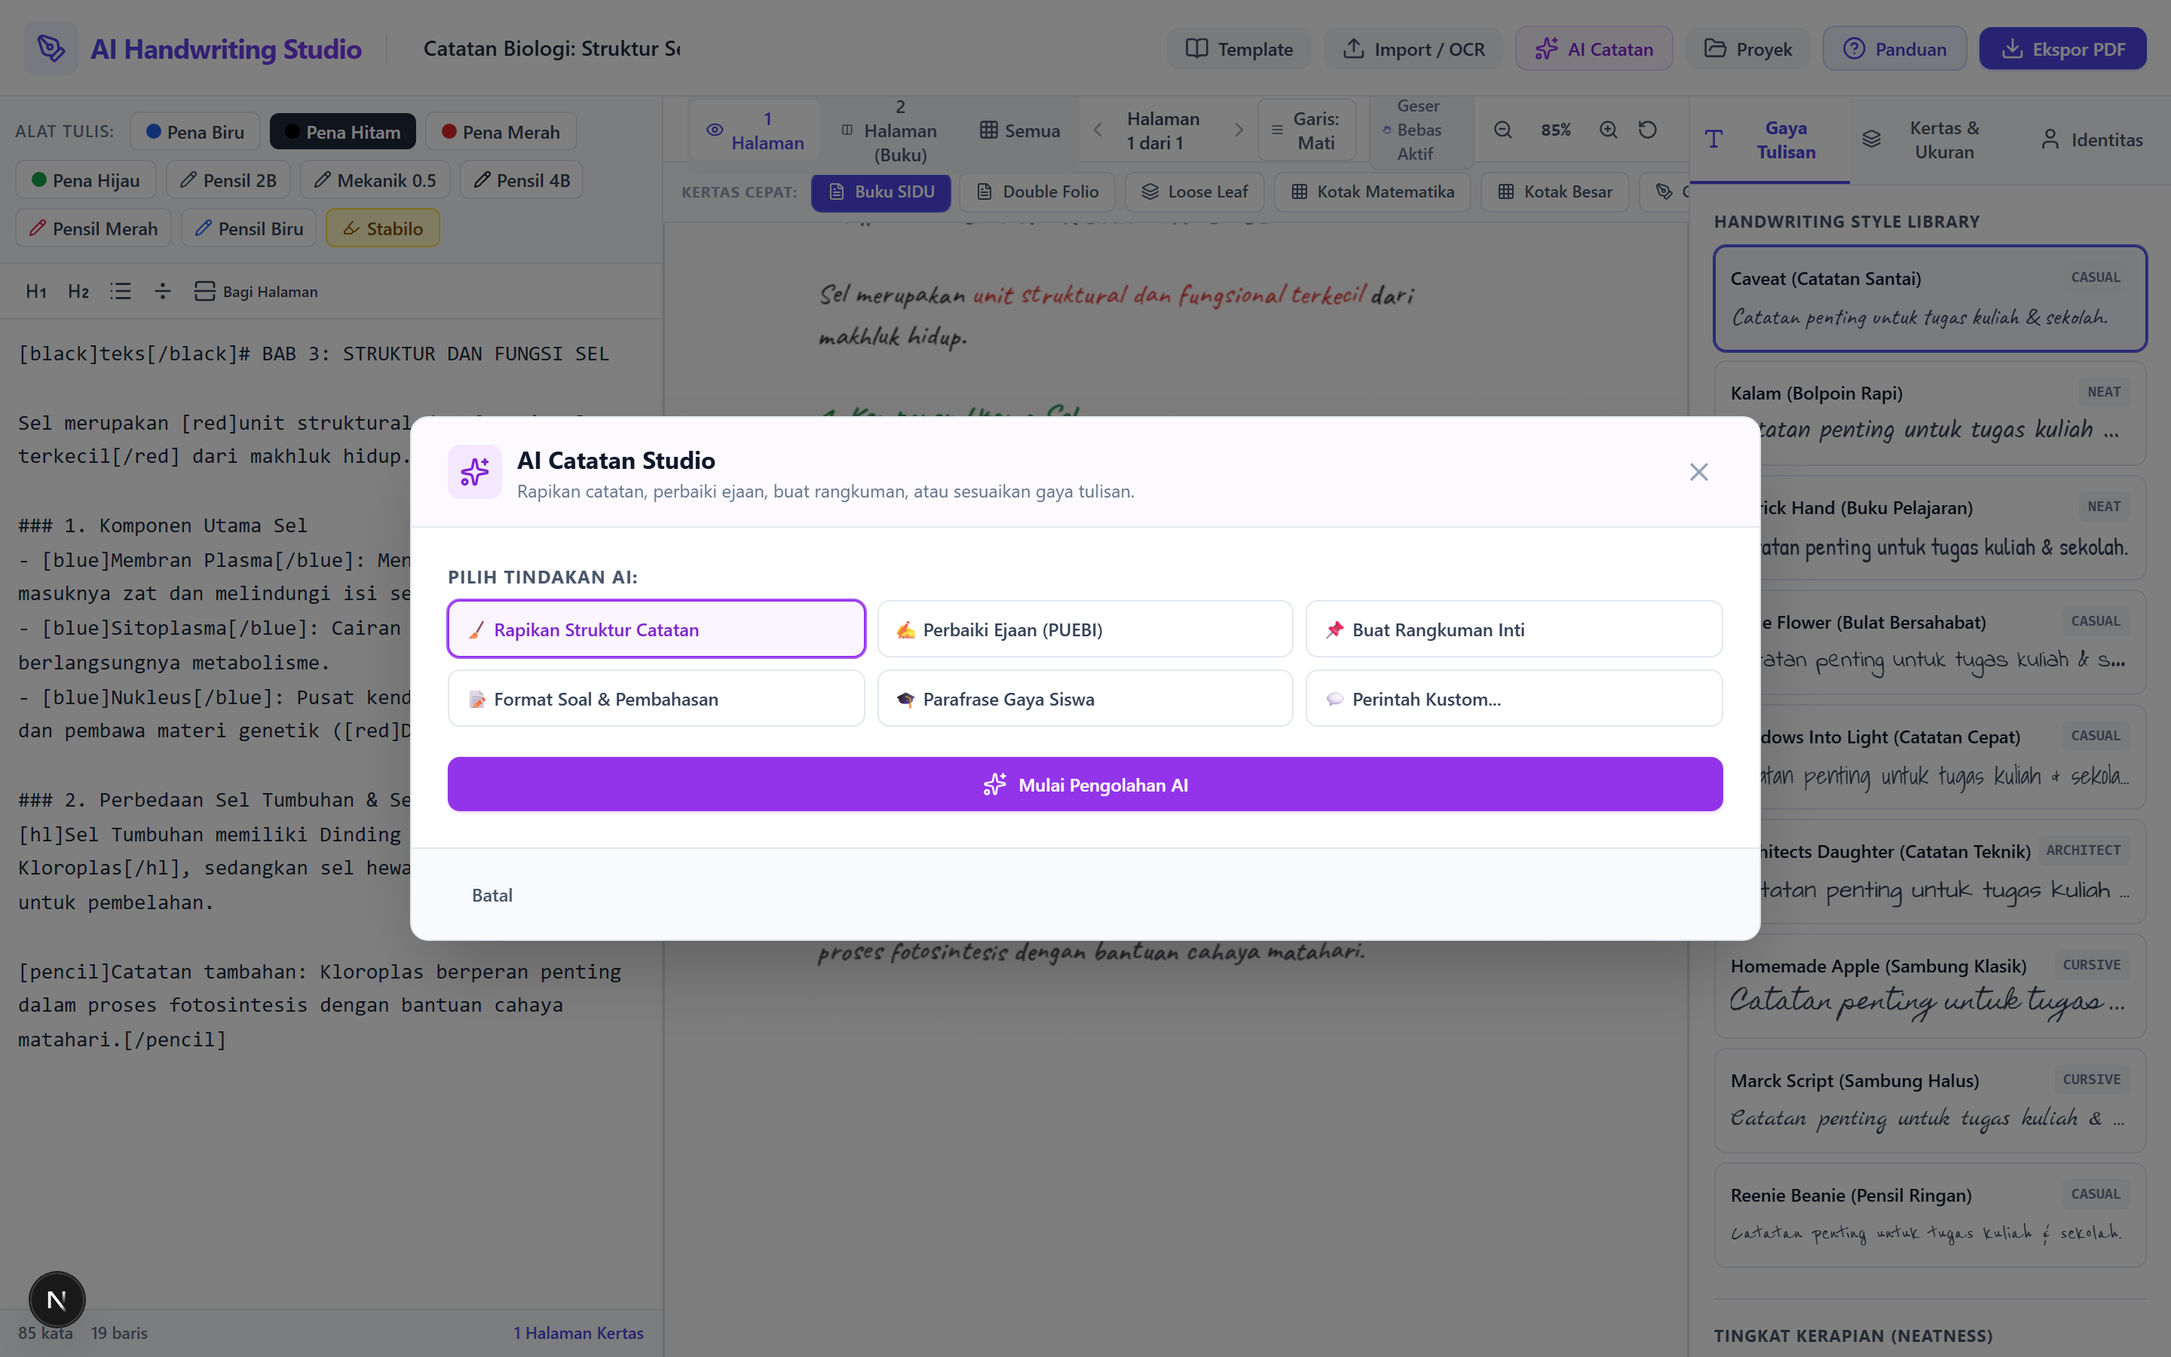
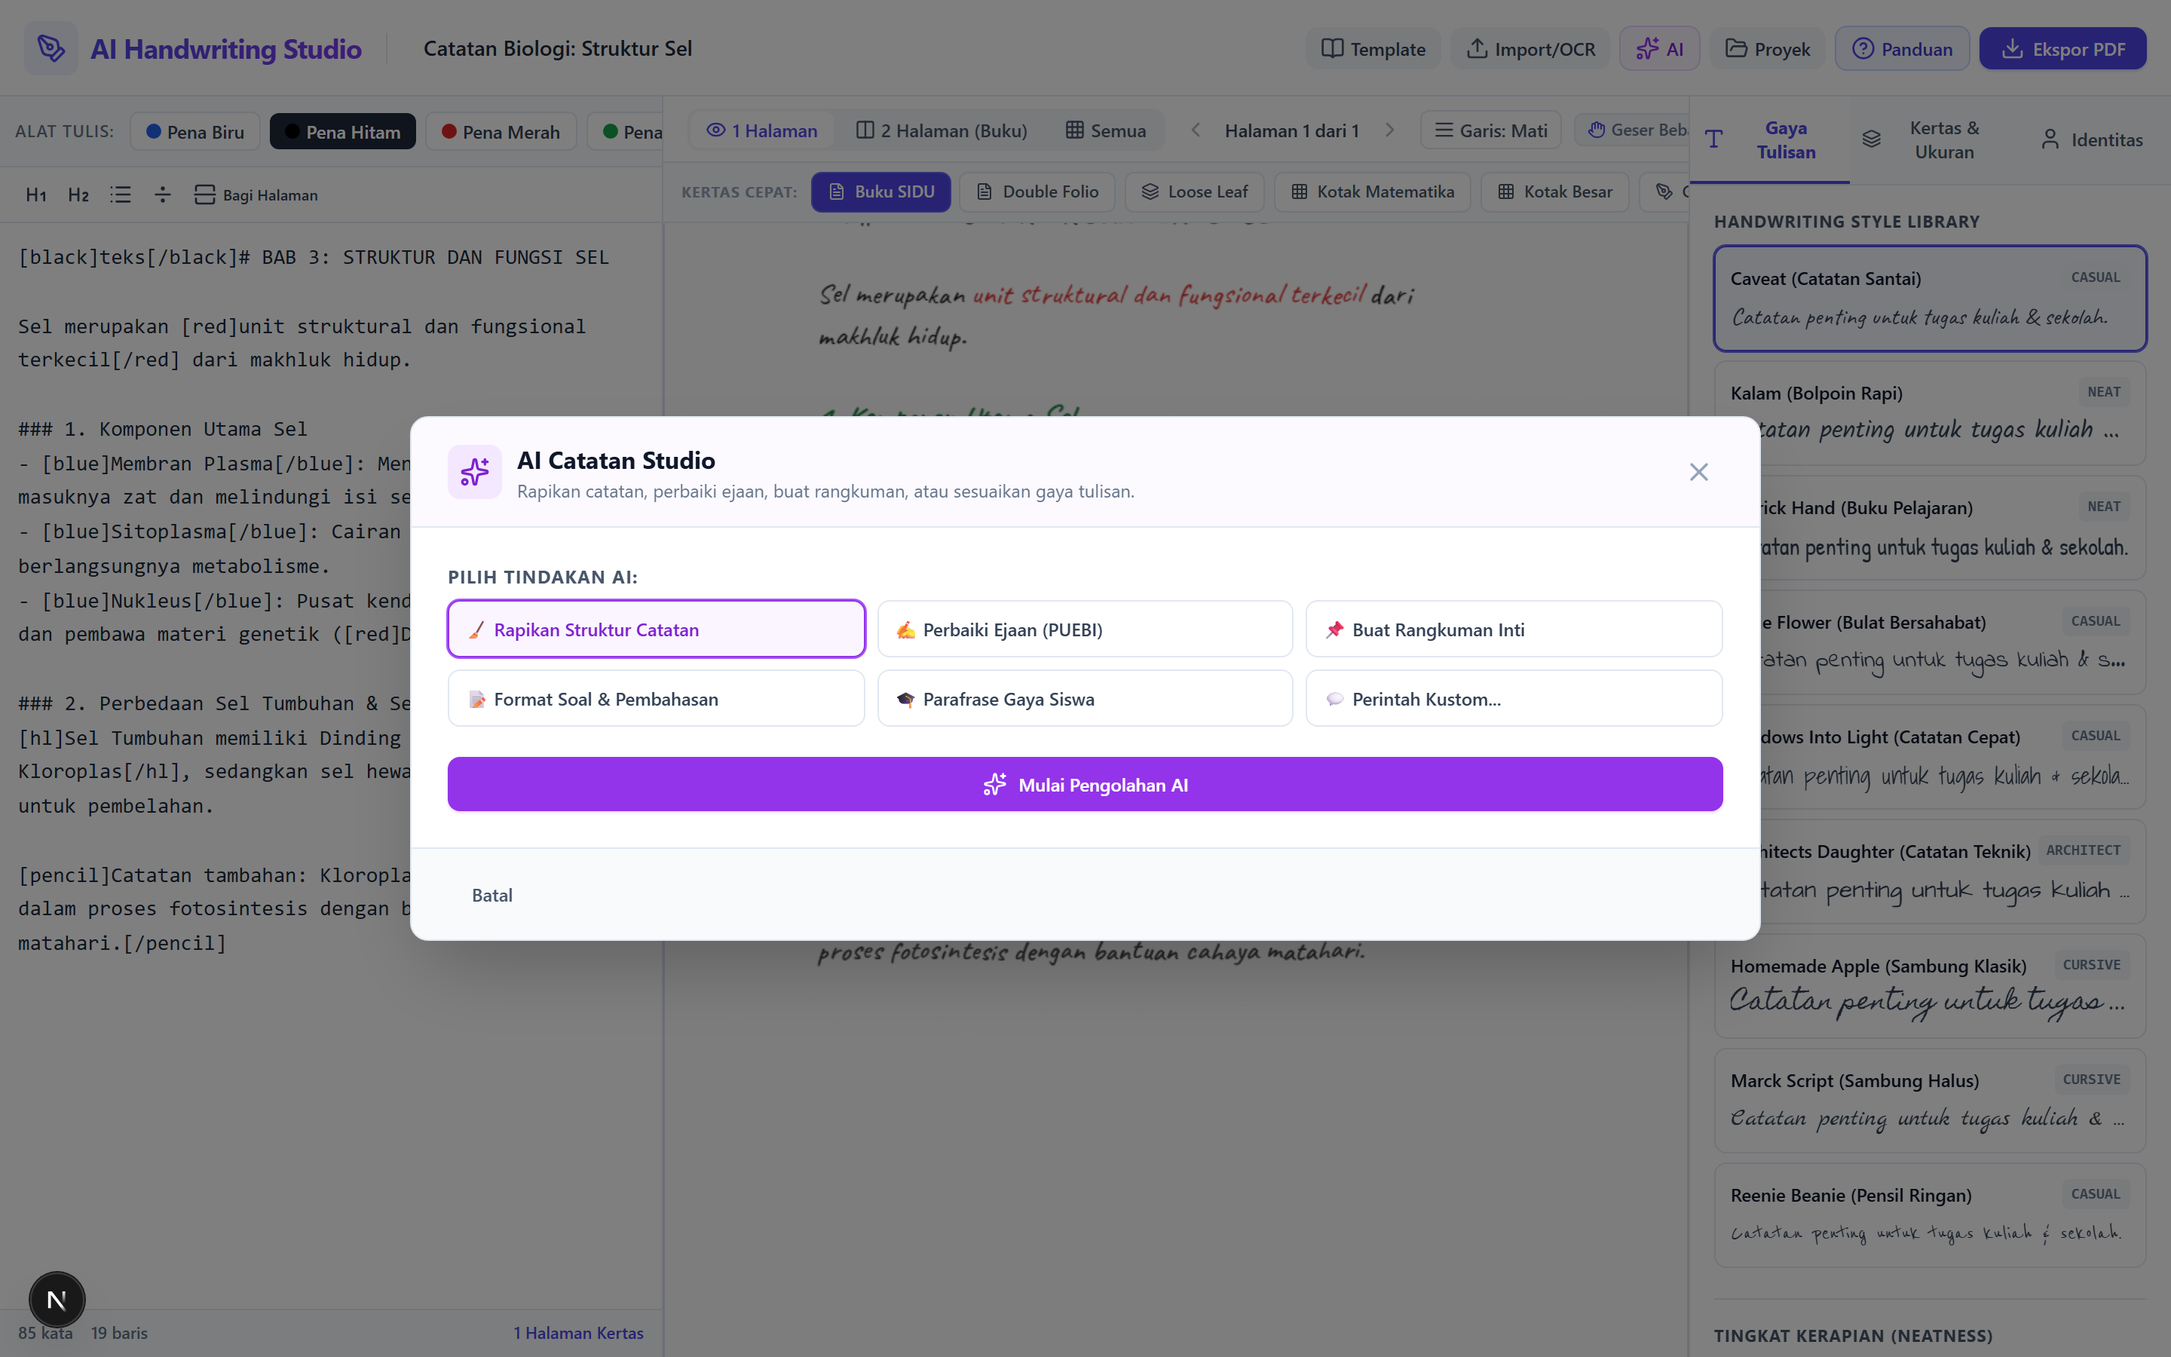
fix(responsive): full responsive layout with mobile bottom nav, auto-zoom scaling & updated documentation

diff --git a/src/components/Navbar.tsx b/src/components/Navbar.tsx
@@ -26,37 +26,38 @@ export const Navbar: React.FC<NavbarProps> = ({
   isSaving,
 }) => {
   return (
-    <header className="h-16 bg-white border-b border-slate-200 px-4 flex items-center justify-between sticky top-0 z-30 select-none">
+    <header className="h-14 sm:h-16 bg-white border-b border-slate-200 px-3 sm:px-4 flex items-center justify-between sticky top-0 z-30 select-none">
       {/* Brand & Project Title */}
-      <div className="flex items-center space-x-4">
-        <div className="flex items-center space-x-2 text-indigo-600 font-bold text-lg tracking-tight">
-          <div className="p-2 bg-indigo-50 rounded-lg text-indigo-600">
-            <PenTool className="w-5 h-5" />
+      <div className="flex items-center space-x-2 sm:space-x-4 min-w-0">
+        <div className="flex items-center space-x-1.5 sm:space-x-2 text-indigo-600 font-bold text-base sm:text-lg tracking-tight shrink-0">
+          <div className="p-1.5 sm:p-2 bg-indigo-50 rounded-lg text-indigo-600">
+            <PenTool className="w-4 h-4 sm:w-5 sm:h-5" />
           </div>
           <span className="hidden sm:inline bg-gradient-to-r from-indigo-600 to-violet-600 bg-clip-text text-transparent">
             AI Handwriting Studio
           </span>
+          <span className="sm:hidden font-bold text-indigo-600 text-sm">Studio</span>
         </div>
 
-        <div className="h-5 w-px bg-slate-200 hidden sm:block" />
+        <div className="h-4 sm:h-5 w-px bg-slate-200 hidden sm:block" />
 
-        <div className="flex items-center space-x-2">
+        <div className="flex items-center space-x-1 sm:space-x-2 min-w-0">
           <input
             type="text"
             value={project.title}
             onChange={(e) => onUpdateTitle(e.target.value)}
-            className="text-sm font-semibold text-slate-800 bg-transparent hover:bg-slate-100 focus:bg-white focus:ring-1 focus:ring-indigo-500 rounded px-2 py-1 outline-none max-w-[200px] md:max-w-[320px] transition-colors"
+            className="text-xs sm:text-sm font-semibold text-slate-800 bg-transparent hover:bg-slate-100 focus:bg-white focus:ring-1 focus:ring-indigo-500 rounded px-1.5 sm:px-2 py-1 outline-none w-24 sm:w-44 md:w-64 truncate transition-colors"
             placeholder="Judul Catatan..."
           />
-          {isSaving && <span className="text-xs text-slate-400 italic">Menyimpan...</span>}
+          {isSaving && <span className="text-[10px] text-slate-400 italic hidden md:inline">Menyimpan...</span>}
         </div>
       </div>
 
       {/* Primary Action Buttons */}
-      <div className="flex items-center space-x-2">
+      <div className="flex items-center space-x-1 sm:space-x-1.5 shrink-0">
         <button
           onClick={onOpenTemplates}
-          className="flex items-center space-x-1.5 px-3 py-1.5 text-xs font-medium text-slate-700 bg-slate-100 hover:bg-slate-200 rounded-lg transition-colors"
+          className="flex items-center space-x-1 p-1.5 sm:px-2.5 sm:py-1.5 text-xs font-medium text-slate-700 bg-slate-100 hover:bg-slate-200 rounded-lg transition-colors"
           title="Contoh Template Catatan Siswa"
         >
           <BookOpen className="w-4 h-4 text-slate-600" />
@@ -65,25 +66,25 @@ export const Navbar: React.FC<NavbarProps> = ({
 
         <button
           onClick={onOpenImport}
-          className="flex items-center space-x-1.5 px-3 py-1.5 text-xs font-medium text-slate-700 bg-slate-100 hover:bg-slate-200 rounded-lg transition-colors"
+          className="flex items-center space-x-1 p-1.5 sm:px-2.5 sm:py-1.5 text-xs font-medium text-slate-700 bg-slate-100 hover:bg-slate-200 rounded-lg transition-colors"
           title="Import DOCX, TXT atau OCR Foto Soal"
         >
           <Upload className="w-4 h-4 text-slate-600" />
-          <span className="hidden md:inline">Import / OCR</span>
+          <span className="hidden md:inline">Import/OCR</span>
         </button>
 
         <button
           onClick={onOpenAi}
-          className="flex items-center space-x-1.5 px-3 py-1.5 text-xs font-medium text-purple-700 bg-purple-50 hover:bg-purple-100 border border-purple-200 rounded-lg transition-colors"
+          className="flex items-center space-x-1 p-1.5 sm:px-2.5 sm:py-1.5 text-xs font-medium text-purple-700 bg-purple-50 hover:bg-purple-100 border border-purple-200 rounded-lg transition-colors"
           title="Bantuan AI: Rapikan, Perbaiki Ejaan, Rangkum"
         >
           <Sparkles className="w-4 h-4 text-purple-600" />
-          <span className="hidden sm:inline">AI Catatan</span>
+          <span className="hidden sm:inline">AI</span>
         </button>
 
         <button
           onClick={onOpenProjects}
-          className="flex items-center space-x-1.5 px-3 py-1.5 text-xs font-medium text-slate-700 bg-slate-100 hover:bg-slate-200 rounded-lg transition-colors"
+          className="flex items-center space-x-1 p-1.5 sm:px-2.5 sm:py-1.5 text-xs font-medium text-slate-700 bg-slate-100 hover:bg-slate-200 rounded-lg transition-colors"
           title="Buka Proyek Tersimpan"
         >
           <FolderOpen className="w-4 h-4 text-slate-600" />
@@ -93,7 +94,7 @@ export const Navbar: React.FC<NavbarProps> = ({
         {onOpenTour && (
           <button
             onClick={onOpenTour}
-            className="flex items-center space-x-1.5 px-3 py-1.5 text-xs font-medium text-indigo-700 bg-indigo-50 hover:bg-indigo-100 border border-indigo-200 rounded-lg transition-colors"
+            className="flex items-center space-x-1 p-1.5 sm:px-2.5 sm:py-1.5 text-xs font-medium text-indigo-700 bg-indigo-50 hover:bg-indigo-100 border border-indigo-200 rounded-lg transition-colors"
             title="Panduan Cara Menggunakan AI Handwriting Studio"
           >
             <HelpCircle className="w-4 h-4 text-indigo-600" />
@@ -103,10 +104,11 @@ export const Navbar: React.FC<NavbarProps> = ({
 
         <button
           onClick={onOpenExport}
-          className="flex items-center space-x-1.5 px-3.5 py-1.5 text-xs font-semibold text-white bg-indigo-600 hover:bg-indigo-700 rounded-lg shadow-sm transition-all shadow-indigo-200"
+          className="flex items-center space-x-1 sm:space-x-1.5 px-2.5 sm:px-3.5 py-1.5 text-xs font-semibold text-white bg-indigo-600 hover:bg-indigo-700 rounded-lg shadow-sm transition-all shadow-indigo-200 shrink-0"
         >
-          <Download className="w-4 h-4" />
-          <span>Ekspor PDF</span>
+          <Download className="w-3.5 h-3.5 sm:w-4 sm:h-4" />
+          <span className="hidden sm:inline">Ekspor PDF</span>
+          <span className="sm:hidden">PDF</span>
         </button>
       </div>
     </header>

diff --git a/src/app/page.tsx b/src/app/page.tsx
@@ -26,6 +26,7 @@ import {
   SampleTemplate,
   createProjectFromTemplate,
 } from '@/lib/templates';
+import { Eye, PenLine, Sliders } from 'lucide-react';
 import React, { useCallback, useEffect, useMemo, useRef, useState } from 'react';
 
 export default function Home() {
@@ -46,6 +47,7 @@ export default function Home() {
   const [isImportOpen, setIsImportOpen] = useState(false);
   const [isExportOpen, setIsExportOpen] = useState(false);
   const [isTourOpen, setIsTourOpen] = useState(false);
+  const [mobileTab, setMobileTab] = useState<'editor' | 'preview' | 'settings'>('editor');
 
   // Load projects from storage on initial mount & check first visit tour
   useEffect(() => {
@@ -238,10 +240,14 @@ export default function Home() {
         isSaving={isSaving}
       />
 
-      {/* Main Workspace (3-pane layout) */}
-      <div className="flex-1 flex overflow-hidden">
+      {/* Main Workspace (Responsive 3-pane on desktop, Tab-switched on mobile/tablet) */}
+      <div className="flex-1 flex overflow-hidden relative min-h-0">
         {/* Left Pane: Multi-pen Text Editor */}
-        <div className="w-[380px] lg:w-[440px] shrink-0 h-full">
+        <div
+          className={`${
+            mobileTab === 'editor' ? 'flex' : 'hidden'
+          } lg:flex w-full lg:w-[380px] xl:w-[440px] shrink-0 h-full flex-col z-10`}
+        >
           <Editor
             content={activeProject.content}
             onChange={updateContent}
@@ -253,7 +259,11 @@ export default function Home() {
         </div>
 
         {/* Center Pane: Realistic Canvas Paper Preview */}
-        <div className="flex-1 h-full min-w-0">
+        <div
+          className={`${
+            mobileTab === 'preview' ? 'flex' : 'hidden'
+          } lg:flex flex-1 h-full min-w-0 flex-col z-10`}
+        >
           <PaperCanvas
             pages={layout.pages}
             paperConfig={activeProject.paperConfig}
@@ -265,7 +275,11 @@ export default function Home() {
         </div>
 
         {/* Right Pane: Settings & Handwriting Style Library */}
-        <div className="shrink-0 h-full">
+        <div
+          className={`${
+            mobileTab === 'settings' ? 'flex' : 'hidden'
+          } lg:flex w-full lg:w-80 shrink-0 h-full flex-col z-10`}
+        >
           <SettingsSidebar
             paperConfig={activeProject.paperConfig}
             onUpdatePaperConfig={updatePaperConfig}
@@ -275,6 +289,44 @@ export default function Home() {
             onUpdateStudentMeta={updateStudentMeta}
           />
         </div>
+      </div>
+
+      {/* Mobile / Tablet Bottom Navigation Bar */}
+      <div className="lg:hidden h-14 bg-white border-t border-slate-200 px-2 flex items-center justify-around z-30 select-none shrink-0 shadow-lg">
+        <button
+          onClick={() => setMobileTab('editor')}
+          className={`flex-1 py-1 flex flex-col items-center justify-center space-y-0.5 rounded-lg transition-colors ${
+            mobileTab === 'editor' ? 'text-indigo-600 font-bold' : 'text-slate-500 hover:text-slate-900'
+          }`}
+        >
+          <PenLine className="w-4 h-4" />
+          <span className="text-[10px]">Editor Teks</span>
+        </button>
+
+        <button
+          onClick={() => setMobileTab('preview')}
+          className={`flex-1 py-1 flex flex-col items-center justify-center space-y-0.5 rounded-lg transition-colors relative ${
+            mobileTab === 'preview' ? 'text-indigo-600 font-bold' : 'text-slate-500 hover:text-slate-900'
+          }`}
+        >
+          <div className="relative">
+            <Eye className="w-4 h-4" />
+            <span className="absolute -top-1.5 -right-3 bg-indigo-600 text-white text-[9px] font-bold px-1.5 py-0.2 rounded-full">
+              {layout.totalPages}
+            </span>
+          </div>
+          <span className="text-[10px]">Preview Kanvas</span>
+        </button>
+
+        <button
+          onClick={() => setMobileTab('settings')}
+          className={`flex-1 py-1 flex flex-col items-center justify-center space-y-0.5 rounded-lg transition-colors ${
+            mobileTab === 'settings' ? 'text-indigo-600 font-bold' : 'text-slate-500 hover:text-slate-900'
+          }`}
+        >
+          <Sliders className="w-4 h-4" />
+          <span className="text-[10px]">Pengaturan</span>
+        </button>
       </div>
 
       {/* Modals */}

diff --git a/src/components/PaperCanvas.tsx b/src/components/PaperCanvas.tsx
@@ -79,6 +79,25 @@ export const PaperCanvas: React.FC<PaperCanvasProps> = ({
   const [viewMode, setViewMode] = useState<ViewMode>('single');
   const [zoom, setZoom] = useState(0.85); // 85% scale fits comfortably on desktop
 
+  // Auto-fit zoom based on screen width (mobile / tablet / desktop)
+  useEffect(() => {
+    if (typeof window !== 'undefined') {
+      const adaptZoom = () => {
+        const w = window.innerWidth;
+        if (w < 640) {
+          // Mobile phone
+          setZoom(Math.max(0.35, Math.min(0.48, (w - 24) / 798)));
+        } else if (w < 1024) {
+          // Tablet
+          setZoom(0.65);
+        }
+      };
+      adaptZoom();
+      window.addEventListener('resize', adaptZoom);
+      return () => window.removeEventListener('resize', adaptZoom);
+    }
+  }, []);
+
   // Free Pan & Drag cursor state
   const [panOffset, setPanOffset] = useState({ x: 0, y: 0 });
   const [isDragging, setIsDragging] = useState(false);
@@ -134,7 +153,7 @@ export const PaperCanvas: React.FC<PaperCanvasProps> = ({
   return (
     <div className="flex-1 flex flex-col h-full bg-slate-100 overflow-hidden relative">
       {/* Top Preview Controls Bar */}
-      <div className="h-11 bg-white/90 backdrop-blur-xs border-b border-slate-200 px-4 flex items-center justify-between z-10 select-none">
+      <div className="h-11 bg-white/95 backdrop-blur-xs border-b border-slate-200 px-3 sm:px-4 flex items-center justify-between z-10 select-none overflow-x-auto whitespace-nowrap scrollbar-none gap-2">
         {/* View Mode Switcher */}
         <div className="flex items-center space-x-1 bg-slate-100 p-0.5 rounded-lg text-xs font-medium text-slate-600">
           <button

diff --git a/scripts/capture-screenshots.js b/scripts/capture-screenshots.js
@@ -106,6 +106,24 @@ async function capture() {
     await page.screenshot({ path: path.join(OUTPUT_DIR, '07-two-page-spread.png') });
   }
 
+  // 8. Mobile Viewport Responsive (iPhone 375x667)
+  console.log('Capturing 08-mobile-responsive.png...');
+  await page.setViewport({ width: 375, height: 667, deviceScaleFactor: 2 });
+  await page.goto('http://localhost:3000', { waitUntil: 'networkidle0' });
+  const mobileClose = await page.$('button[title*="Tutup"], button[title*="Lewati"]');
+  if (mobileClose) await mobileClose.click();
+  await new Promise((r) => setTimeout(r, 800));
+  await page.screenshot({ path: path.join(OUTPUT_DIR, '08-mobile-responsive.png') });
+
+  // 9. Mobile Preview Tab
+  console.log('Capturing 09-mobile-preview.png...');
+  const mobilePreviewTab = await page.$('div.lg\\:hidden button:nth-child(2)');
+  if (mobilePreviewTab) {
+    await mobilePreviewTab.click();
+    await new Promise((r) => setTimeout(r, 800));
+    await page.screenshot({ path: path.join(OUTPUT_DIR, '09-mobile-preview.png') });
+  }
+
   await browser.close();
   console.log('Screenshots capture complete!');
 }

diff --git a/src/components/Editor.tsx b/src/components/Editor.tsx
@@ -74,10 +74,10 @@ export const Editor: React.FC<EditorProps> = ({
   const wordCount = content.trim() ? content.trim().split(/\s+/).length : 0;
 
   return (
-    <div className="flex flex-col h-full bg-white border-r border-slate-200">
+    <div className="flex flex-col h-full bg-white lg:border-r border-slate-200">
       {/* Multi-Pen Selection Bar */}
-      <div className="p-2.5 bg-slate-50 border-b border-slate-200 flex flex-wrap items-center gap-1.5 text-xs">
-        <span className="text-[11px] font-semibold text-slate-500 uppercase tracking-wider mr-1">
+      <div className="p-2 sm:p-2.5 bg-slate-50 border-b border-slate-200 flex items-center gap-1.5 text-xs overflow-x-auto whitespace-nowrap scrollbar-none">
+        <span className="text-[11px] font-semibold text-slate-500 uppercase tracking-wider shrink-0 mr-1">
           Alat Tulis:
         </span>
 

diff --git a/src/components/SettingsSidebar.tsx b/src/components/SettingsSidebar.tsx
@@ -76,7 +76,7 @@ export const SettingsSidebar: React.FC<SettingsSidebarProps> = ({
   };
 
   return (
-    <aside className="w-80 bg-white border-l border-slate-200 flex flex-col h-full select-none">
+    <aside className="w-full lg:w-80 bg-white lg:border-l border-slate-200 flex flex-col h-full select-none">
       {/* Tabs Header */}
       <div className="flex border-b border-slate-200 text-xs font-semibold text-slate-600 bg-slate-50">
         <button

diff --git a/README.md b/README.md
@@ -122,7 +122,20 @@ Berikut adalah tangkapan layar bagian-bagian utama studio beserta panduan cara m
 
 ---
 
-### 8. Contoh Hasil Akhir Tulisan Tangan Digital
+### 8. Desain Responsif di Semua Perangkat (Mobile, Tablet, & Desktop)
+<p align="center">
+  <img src="docs/screenshots/08-mobile-responsive.png" width="45%" alt="Tampilan Mobile Editor" />
+  &nbsp;&nbsp;
+  <img src="docs/screenshots/09-mobile-preview.png" width="45%" alt="Tampilan Mobile Preview Kanvas" />
+</p>
+
+*Aplikasi otomatis menyesuaikan ukuran layar:*
+- **Smartphone & Tablet**: Menggunakan **Bottom Navigation Bar** yang praktis untuk berpindah cepat antara **Editor Teks**, **Preview Kanvas**, dan **Pengaturan**. Zoom kanvas otomatis disesuaikan agar pas di layar ponsel tanpa terpotong.
+- **Laptop & Desktop**: Menggunakan tata letak profesional **3-Pane Workspace** berdampingan secara simultan.
+
+---
+
+### 9. Contoh Hasil Akhir Tulisan Tangan Digital
 ![Contoh Hasil Tulisan Tangan](docs/screenshots/preview-catatan-biologi.png)
 
 ---
